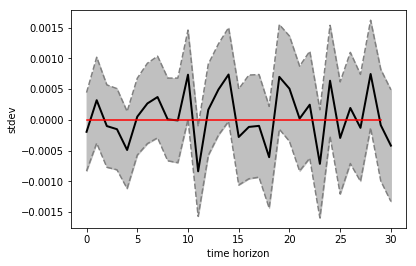
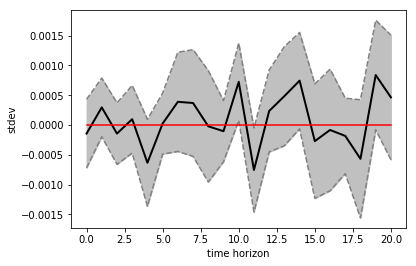
Changed regression to use HAC robust standard errors

diff --git a/analysis/7_LP_estimation.py b/analysis/7_LP_estimation.py
@@ -83,15 +83,15 @@ irf_st_dev = pd.DataFrame()
 
 irf_pval = pd.DataFrame()
 
-
 H= 20
 for k in [stdev, gini_coeff, p90_p10, exp_10, exp_90]:
     for h in range(H+1):
         y = k.shift(-h) - k.shift(-(h - 1))
         reg = sm.OLS(endog=y, exog=X[k.name], missing="drop").fit()
-        irf_values.loc[h, k.name] = reg.params[1]
-        irf_st_dev.loc[h, k.name] = reg.bse[1]
-        irf_pval.loc[h, k.name] = reg.pvalues[1]
+        rcov = reg.get_robustcov_results(cov_type='HAC', maxlags=10,use_correction=True)
+        irf_values.loc[h, k.name] = rcov.params[1]
+        irf_st_dev.loc[h, k.name] = rcov.bse[1]
+        irf_pval.loc[h, k.name] = rcov.pvalues[1]
     plt.plot(irf_values[k.name], label="irf",color='black',linewidth=2)
     plt.plot(1.65 * irf_st_dev[k.name]+irf_values[k.name],'--', label="2_st_dev_up",color='grey')
     plt.plot(-1.65 * irf_st_dev[k.name]+irf_values[k.name],'--', label="2_st_dev_down",color='grey')
